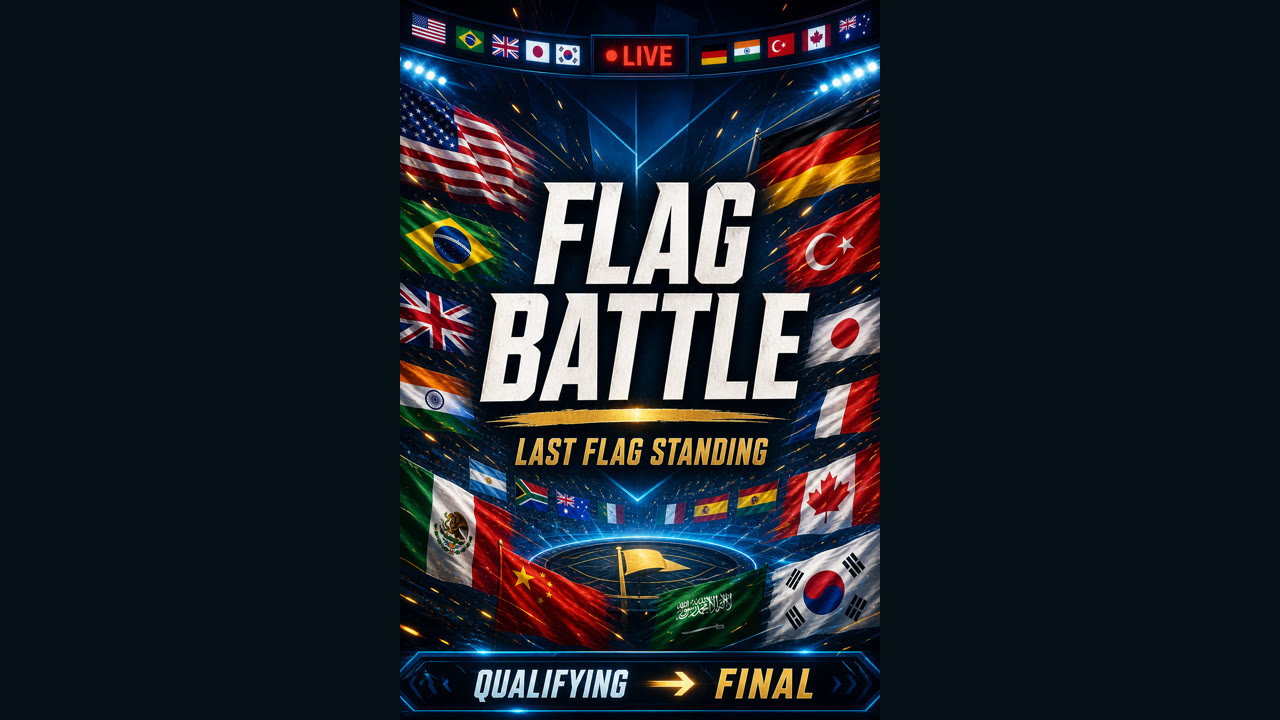
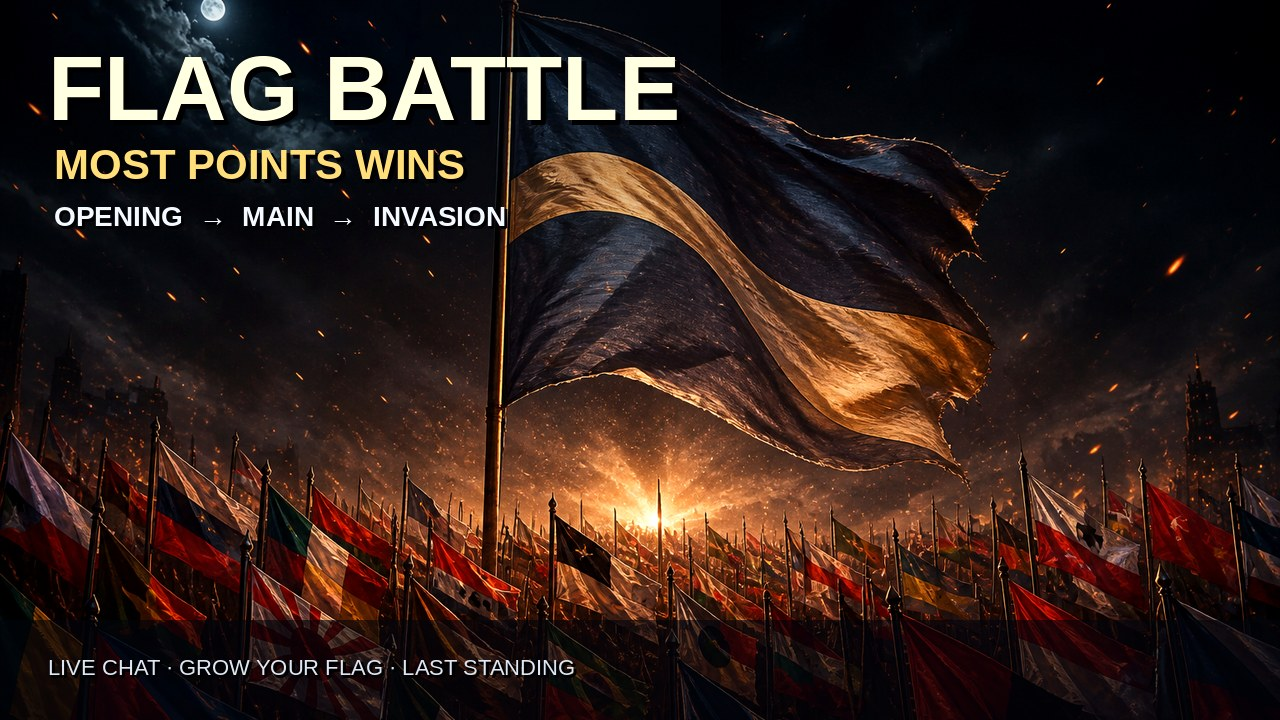
Use landscape 1280×720 YouTube livestream thumbnail
Replace the outdated landscape thumb with a new Flag Battle art
(MOST POINTS WINS / OPENING → MAIN → INVASION), point go-live at
thumbnail-yt-1280.jpg, and prefer landscape in the thumbnail resolver
and ffmpeg compress fallback.

diff --git a/stream/src/youtube.js b/stream/src/youtube.js
@@ -264,12 +264,13 @@ export async function resolveThumbnailFile(preferred) {
   const dir = preferred ? path.dirname(preferred) : "";
   const base = preferred ? path.basename(preferred) : "";
   // Prefer ready-made YouTube JPEGs before the large source PNG.
+  // Landscape 1280×720 first (YouTube livestream standard); portrait as fallback.
   const candidates = [
-    preferred && preferred.replace(/\.png$/i, "-yt.jpg"),
-    dir && path.join(dir, "thumbnail-yt.jpg"),
-    dir && path.join(dir, "thumbnail-yt-1280.jpg"),
-    // Explicit .jpg path already (run.js may pass this).
+    // Explicit path from run.js / caller wins when it's already a JPEG.
     preferred && /\.jpe?g$/i.test(preferred) ? preferred : null,
+    preferred && preferred.replace(/\.png$/i, "-yt.jpg"),
+    dir && path.join(dir, "thumbnail-yt-1280.jpg"),
+    dir && path.join(dir, "thumbnail-yt.jpg"),
     // Oversized PNG last — usually skipped for size, kept as ffmpeg source.
     preferred && /\.png$/i.test(base) ? preferred : null,
   ].filter(Boolean);
@@ -315,7 +316,7 @@ function compressThumbnail(input, output) {
         "-i",
         input,
         "-vf",
-        "scale=1080:1920:force_original_aspect_ratio=decrease,pad=1080:1920:(ow-iw)/2:(oh-ih)/2",
+        "scale=1280:720:force_original_aspect_ratio=decrease,pad=1280:720:(ow-iw)/2:(oh-ih)/2",
         "-frames:v",
         "1",
         "-update",

diff --git a/stream/src/run.js b/stream/src/run.js
@@ -32,8 +32,8 @@ loadEnv();
 
 const __dirname = path.dirname(fileURLToPath(import.meta.url));
 const ROOT = path.resolve(__dirname, "../..");
-// Prefer the compressed YouTube JPEG (<2MB); resolver also falls back to PNG.
-const THUMB = path.join(ROOT, "assets/thumbnail-yt.jpg");
+// Prefer landscape YouTube JPEG (1280×720, <2MB); resolver falls back if missing.
+const THUMB = path.join(ROOT, "assets/thumbnail-yt-1280.jpg");
 const PUBLIC_SITE_DEFAULT = "https://yung1022.github.io/Flagbattle";
 const WENT_LIVE_MARKER = path.join(ROOT, ".data", "went-live");
 /** Exit code: failed before YouTube transitioned to live — workflow may re-dispatch. */
